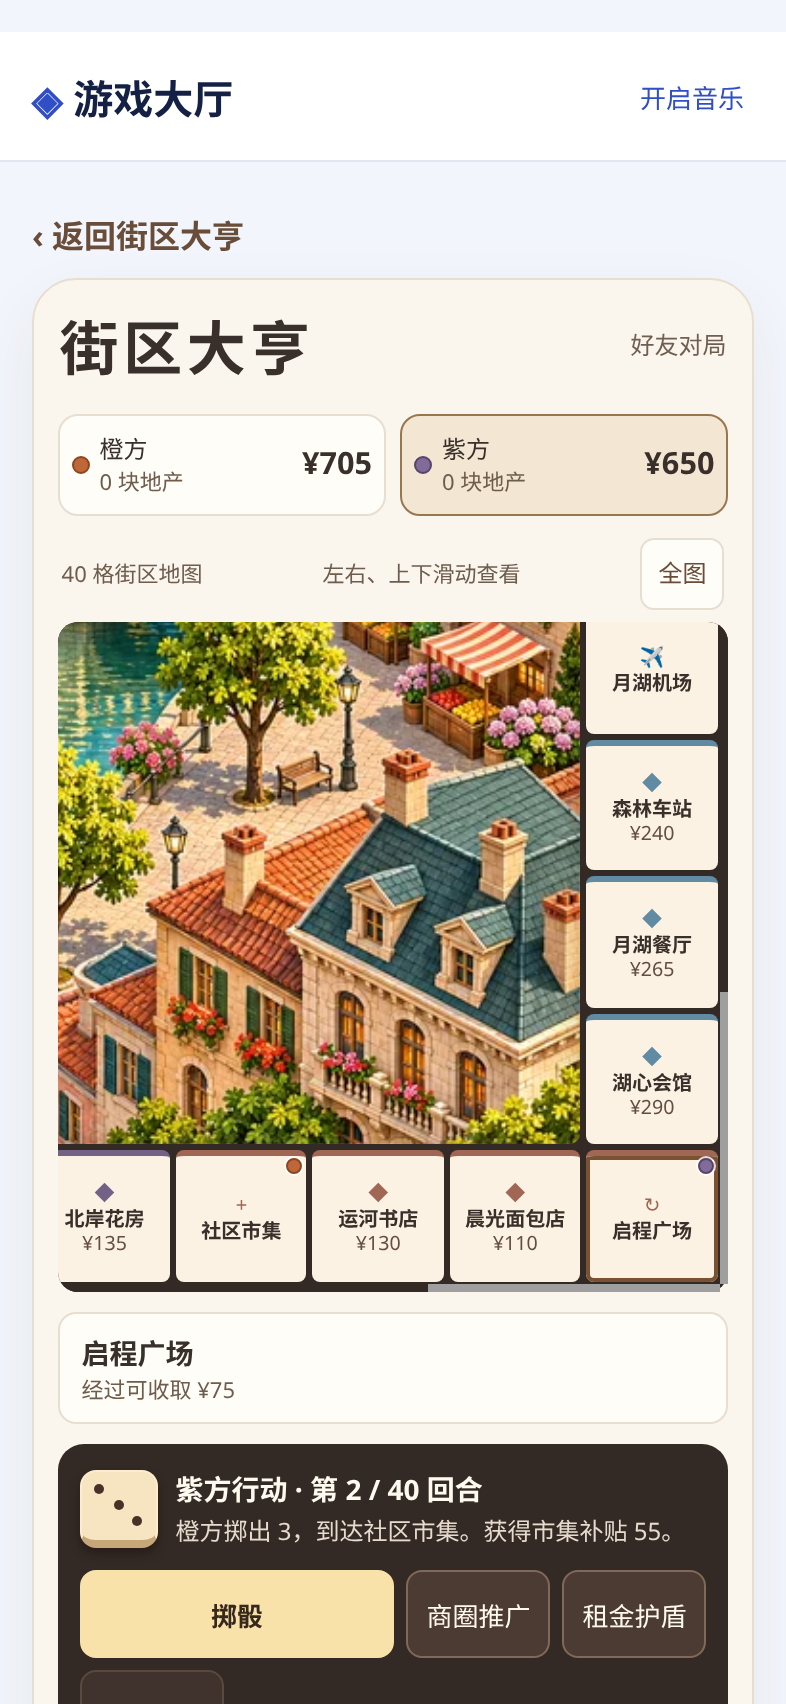
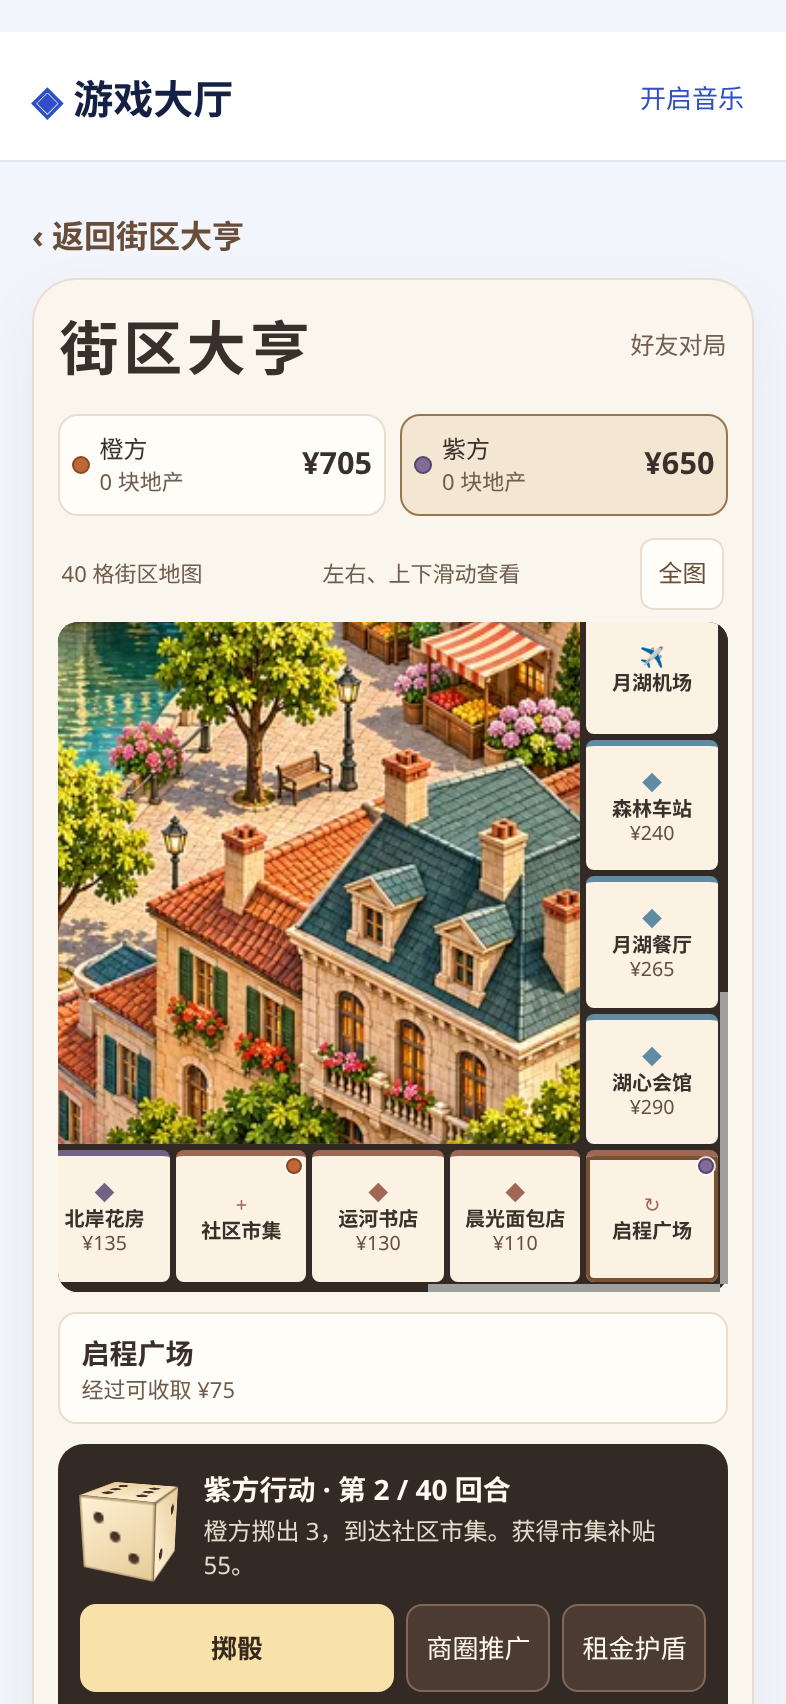
Render Estate dice as a six-faced cube

Changed region(s): [[0.0916, 0.8398, 0.916, 0.9953]]

diff --git a/public/style.css b/public/style.css
@@ -73,6 +73,14 @@ nav{display:flex;gap:24px;color:#536181;font-weight:650}nav a{padding:16px 0;bor
 .estate-mapbar{align-items:center}.estate-mapbar button{min-height:36px;padding:0 8px;border-radius:7px;background:#fffdf7;border:1px solid #e7ded0;color:#694d39;font-size:12px}
 .estate-tile[data-district="6"]{--district:#9b765b}.estate-tile[data-district="7"]{--district:#986b77}.estate-tile[data-district="8"]{--district:#987b57}.estate-tile[data-district="9"]{--district:#618ba3}
 #estate-viewport.overview #estate-board{min-width:0}.overview .estate-tile small,.overview .estate-tile-badge,.overview .estate-model{display:none}.overview .estate-tile{font-size:9px}
-.estate-turn .estate-dice{box-sizing:border-box;display:grid;flex:0 0 39px;width:39px;height:39px;grid-template:repeat(3,1fr)/repeat(3,1fr);gap:1px;place-items:center;background:#f6e5c0;border:1px solid #ffeccd;border-bottom:4px solid #c7a777;border-radius:8px;padding:5px;box-shadow:0 3px 5px #1e120d88}
-.estate-dice i{width:5px;height:5px;border-radius:50%;background:#473229;visibility:hidden}
-.estate-dice i[data-on="true"]{visibility:visible}
+.estate-turn .estate-dice{display:grid;place-items:center;flex:0 0 53px;height:53px;perspective:140px}
+.estate-dice-cube{--half:18px;position:relative;width:calc(2*var(--half));height:calc(2*var(--half));transform-style:preserve-3d;display:block}
+.estate-dice-face{position:absolute;inset:0;box-sizing:border-box;display:grid;grid-template:repeat(3,1fr)/repeat(3,1fr);align-items:center;justify-items:center;gap:1px;padding:5px;border:1px solid #bda57c;border-radius:1px;background:linear-gradient(145deg,#fff1d5,#e7cc99);backface-visibility:hidden}
+.estate-dice-face[data-face="1"]{transform:translateZ(var(--half))}
+.estate-dice-face[data-face="2"]{transform:rotateY(90deg) translateZ(var(--half))}
+.estate-dice-face[data-face="3"]{transform:rotateX(90deg) translateZ(var(--half))}
+.estate-dice-face[data-face="4"]{transform:rotateX(-90deg) translateZ(var(--half))}
+.estate-dice-face[data-face="5"]{transform:rotateY(-90deg) translateZ(var(--half))}
+.estate-dice-face[data-face="6"]{transform:rotateY(180deg) translateZ(var(--half))}
+.estate-dice-face i{width:5px;height:5px;border-radius:50%;background:#4a3529;box-shadow:inset 0 1px 0 #281b12}
+.estate-dice-face i[hidden]{display:block!important;visibility:hidden}
